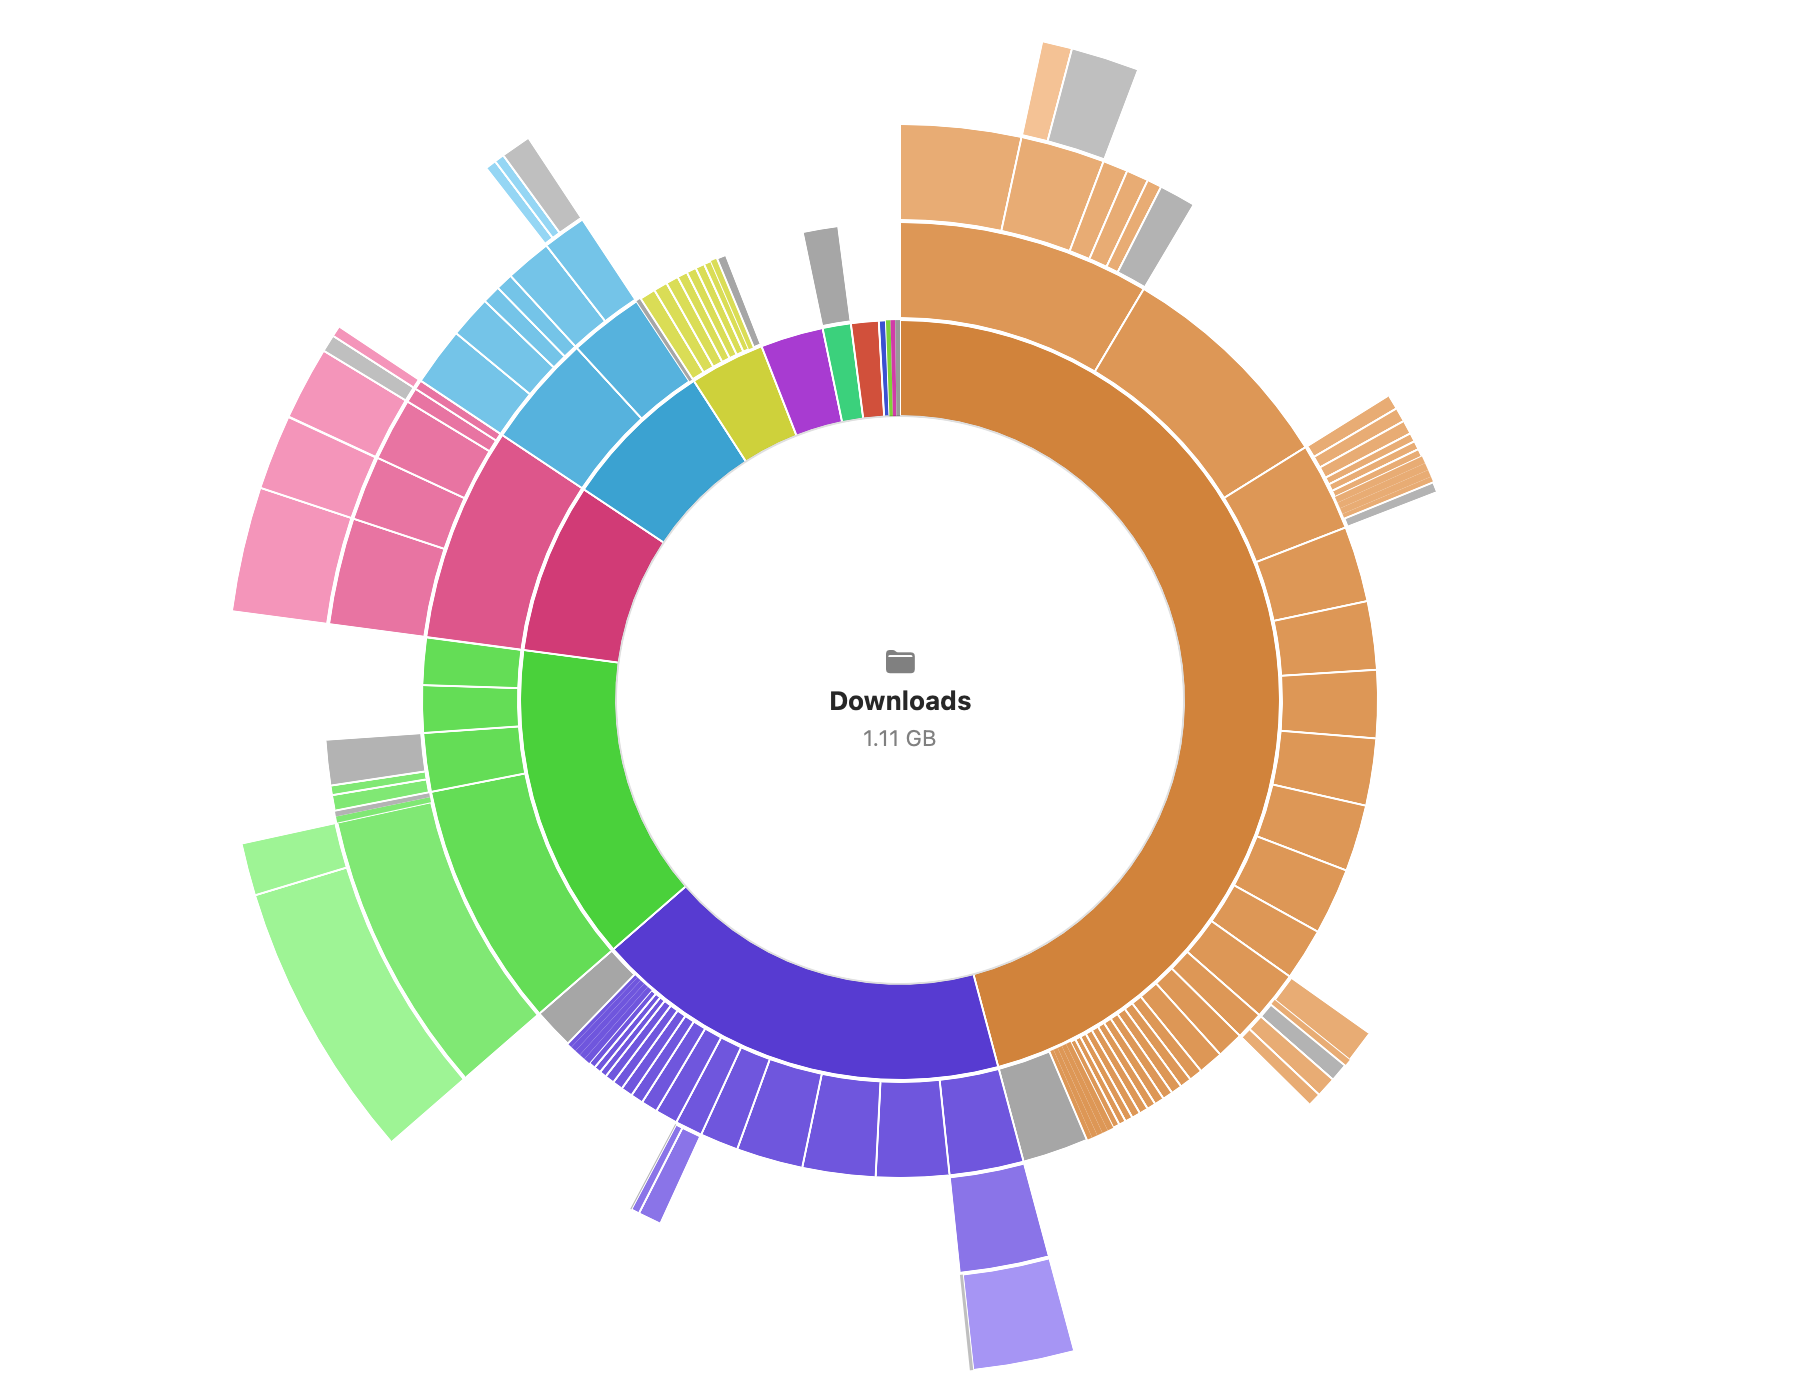
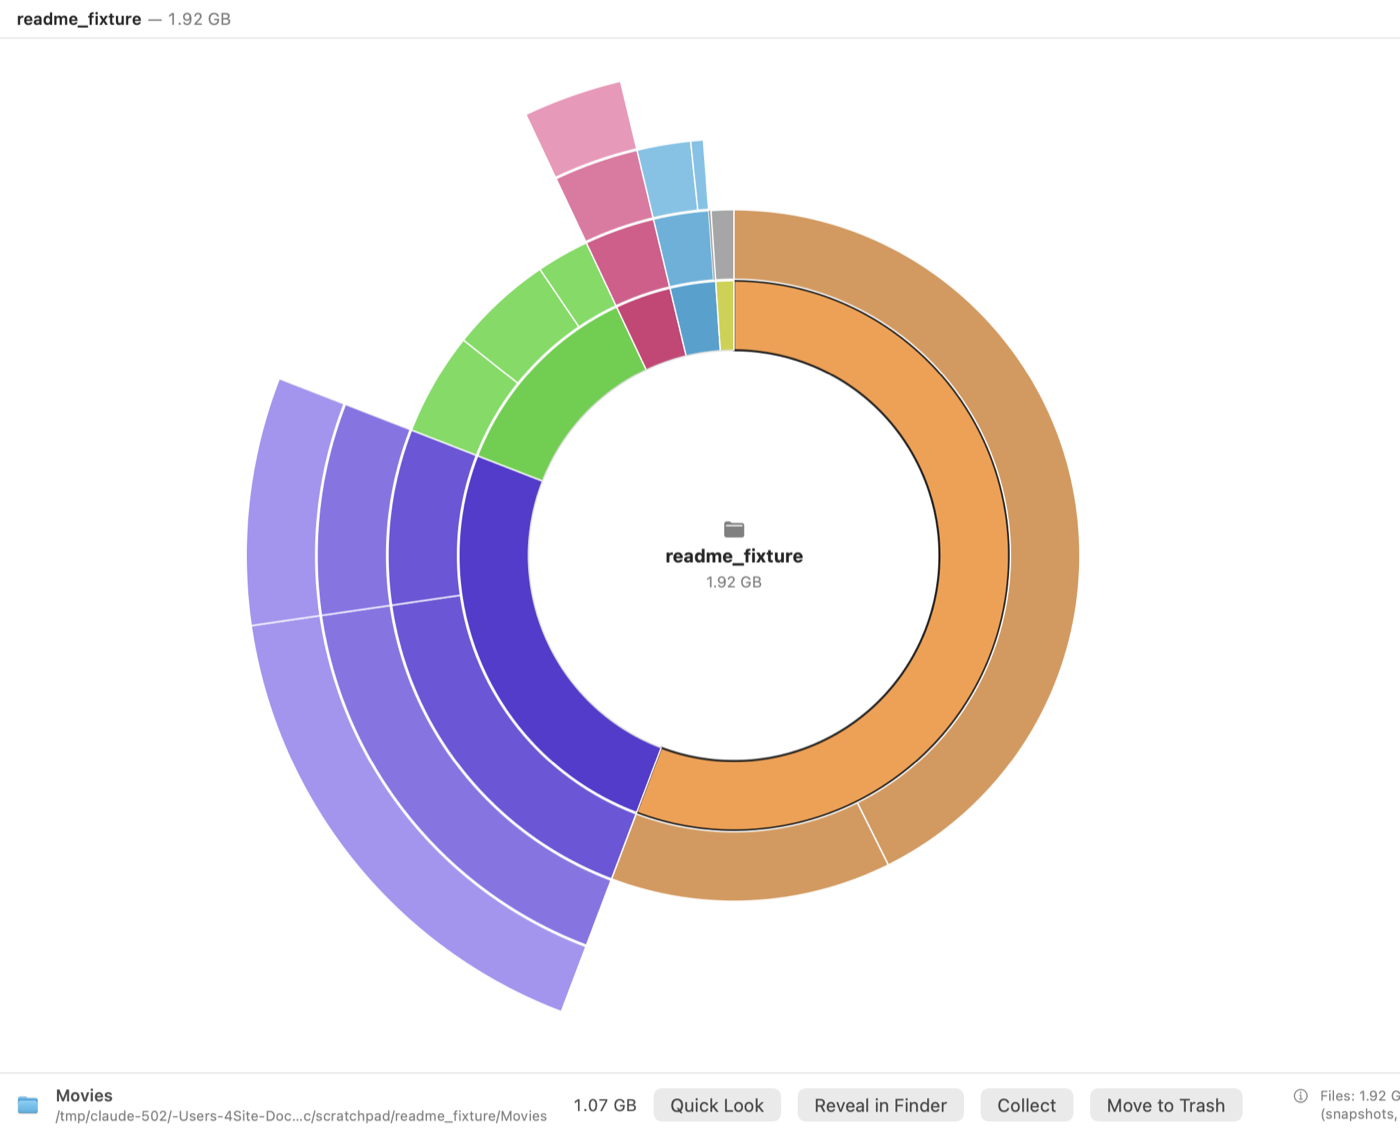
Add real screenshots to the README, cap Name column width
Replaces the single sunburst screenshot with six real renders (welcome,
sunburst, treemap, duplicates, reclaimables, collector) generated by
--ui-audit against a realistic fixture, and expands the README with a
screenshots section and a short positioning paragraph.

Getting a clean Contents/Files-pane screenshot surfaced the "Fix now"
column-truncation finding from the UI/UX audit for real: Name had no
.max width while Size/Share/Modified all did, so Name could absorb
space the other columns needed. Capped it at 420pt in both tables,
matching the pattern the other columns already used.

Also widened --ui-audit's MainView captures to 1400x820 and fixed a
bug in the tool itself: vizMode lives in @user on MainView, not
the view model, so the "treemap" screenshot was silently rendering a
second sunburst. Note left in the tool: Table/List column widths are
unreliable in this offscreen-window capture technique regardless of
settle time or hosting approach (NSHostingView vs NSHostingController
both reproduce it) — charts and List-backed views are unaffected, and
this is why the README screenshots crop out the file table rather
than show it.

diff --git a/Sources/DiskVis/DiskVisApp.swift b/Sources/DiskVis/DiskVisApp.swift
@@ -341,6 +341,14 @@ struct DiskVisApp: App {
                         window.setFrameOrigin(NSPoint(x: 40, y: 40))
                         window.orderFrontRegardless()
                         RunLoop.main.run(until: Date().addingTimeInterval(0.15))
+                        // NOTE: Table/List column-width negotiation is known
+                        // to render incorrectly in this offscreen-window
+                        // technique (columns can clip well short of their
+                        // specified min-width) even after a long settle time
+                        // and with NSHostingController instead of
+                        // NSHostingView — treat Table-heavy captures from
+                        // this flag as unreliable for exact column layout;
+                        // charts and List-backed views are unaffected.
 
                         guard let rep = hosting.bitmapImageRepForCachingDisplay(in: hosting.bounds) else {
                             throw CocoaError(.fileWriteUnknown)
@@ -382,25 +390,35 @@ struct DiskVisApp: App {
                         return ScanningView().environment(vm)
                     }
 
+                    // MainView reads its chart mode from @AppStorage, not the
+                    // view model — flip it directly so 04 actually captures
+                    // the treemap instead of a second sunburst.
+                    func setVizMode(_ mode: String) {
+                        UserDefaults.standard.set(mode, forKey: "vizMode")
+                    }
+
                     // 3. Main window — sunburst, Contents pane
-                    try snap("03-main-sunburst-contents", width: 1100, height: 720) {
+                    setVizMode("sunburst")
+                    try snap("03-main-sunburst-contents", width: 1400, height: 820) {
                         let vm = makeVM(paneMode: .contents)
                         vm.select(root.children.first)
                         return MainView().environment(vm)
                     }
 
                     // 4. Main window — treemap
-                    try snap("04-main-treemap", width: 1100, height: 720) {
+                    setVizMode("treemap")
+                    try snap("04-main-treemap", width: 1400, height: 820) {
                         MainView().environment(makeVM())
                     }
+                    setVizMode("sunburst")
 
                     // 5. Files pane (largest files)
-                    try snap("05-main-files-pane", width: 1100, height: 720) {
+                    try snap("05-main-files-pane", width: 1400, height: 820) {
                         MainView().environment(makeVM(paneMode: .files))
                     }
 
                     // 6. Duplicates pane, populated
-                    try snap("06-main-duplicates", width: 1100, height: 720) {
+                    try snap("06-main-duplicates", width: 1400, height: 820) {
                         let vm = makeVM(paneMode: .duplicates)
                         let files = root.collectFiles(limit: 6, minSize: 1)
                         if files.count >= 4 {
@@ -413,7 +431,7 @@ struct DiskVisApp: App {
                     }
 
                     // 7. Changes (diff) pane, populated
-                    try snap("07-main-changes", width: 1100, height: 720) {
+                    try snap("07-main-changes", width: 1400, height: 820) {
                         let vm = makeVM(paneMode: .changes)
                         let files = root.collectFiles(limit: 6, minSize: 1)
                         if files.count >= 3 {

diff --git a/Sources/DiskVis/Views/FileListView.swift b/Sources/DiskVis/Views/FileListView.swift
@@ -18,7 +18,7 @@ struct FileListView: View {
                         .foregroundStyle(node.isSynthetic ? .secondary : .primary)
                 }
             }
-            .width(min: 160, ideal: 260)
+            .width(min: 160, ideal: 260, max: 420)
 
             TableColumn("Size", value: \.size) { node in
                 Text(Format.bytes(node.size))

diff --git a/Sources/DiskVis/Views/FilesPane.swift b/Sources/DiskVis/Views/FilesPane.swift
@@ -57,7 +57,7 @@ struct FilesPane: View {
                         }
                     }
                 }
-                .width(min: 200, ideal: 300)
+                .width(min: 200, ideal: 300, max: 420)
 
                 TableColumn("Size") { node in
                     Text(Format.bytes(node.size))

diff --git a/README.md b/README.md
@@ -4,6 +4,23 @@ A native macOS app for visualizing and exploring disk space — and freeing it u
 
 ![sunburst](docs/sunburst.png)
 
+DiskVis scans a folder or a whole volume and shows you exactly what's taking up
+the space, in the spirit of DaisyDisk and GrandPerspective. It's built with
+developer machines in mind: the reclaimables catalog knows about Xcode
+DerivedData, npm/pnpm/Yarn/Homebrew/Cargo caches, `node_modules`, LM Studio and
+Ollama models, and Docker's data volume — the stuff that quietly eats tens of
+gigabytes on any machine used for real work — alongside the usual duplicate
+finder, Time Machine snapshot manager, and scan-history diffing.
+
+## Screenshots
+
+|  |  |
+|---|---|
+| ![Welcome](docs/welcome.png) Pick a volume or folder — every mounted disk shows used/free at a glance. | ![Treemap](docs/treemap.png) Squarified treemap when you want to spot the single biggest file, not the structure. |
+| ![Duplicates](docs/duplicates.png) Size → partial hash → full SHA-256, hard links excluded. "Keep newest, collect the rest" per group. | ![Reclaimables](docs/reclaimables.png) One click sizes every known cache/build-artifact location, each with a SAFE/CAUTION badge and a plain-English reason. |
+
+More in [`docs/`](docs): the Collector basket in action ([collector.png](docs/collector.png)).
+
 ## Features
 
 - **Two visualizations** — an interactive sunburst (best for structure) and a squarified treemap (best for spotting big files), switchable in the toolbar. Click to drill in, click the sunburst's center to go back up, hover for details, right-click for actions.
@@ -17,7 +34,7 @@ A native macOS app for visualizing and exploring disk space — and freeing it u
 - **Scan history & diff** — every scan is saved automatically (compact, compressed, last 10 per root); the Changes pane shows what grew, shrank, appeared, or vanished since any earlier scan.
 - **Quick Look** (spacebar) before you delete; **Export** any scan as CSV/JSON from the File menu.
 - **Menu-bar watcher** — free-space readout, per-volume bars, a 30-day free-space sparkline, and an optional once-a-day low-space notification (threshold configurable in Settings).
-- **Free up space safely** — deletions go to the Trash, always behind a confirmation showing the exact size, with a session "Reclaimed" counter. The chart updates instantly without rescanning.
+- **Free up space safely** — every delete path (chart, tables, Collector, Reclaimables) goes through one shared confirmation showing the exact size, with a session "Reclaimed" counter. The chart updates instantly without rescanning.
 - **Honest accounting** — deduplicated allocated sizes (hard links once, `du`-exact), synthetic firmlink/alias trees skipped, and the gap between files and Disk-Utility "used" (snapshots, purgeable) stated instead of hidden.
 
 ## Build & run
@@ -42,6 +59,8 @@ DiskVis --save-snapshot <path>            # store a history snapshot
 DiskVis --diff <path>                     # diff against the latest snapshot
 DiskVis --reclaimables                    # measure the reclaimables catalog
 DiskVis --snapshots                       # list local TM snapshots
+DiskVis --selftest                        # in-memory tree-mechanism assertions, no disk I/O
+DiskVis --ui-audit <path> <out-dir>       # render every major screen to PNGs for visual review
 ```
 
 ## Accuracy